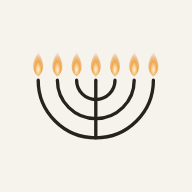
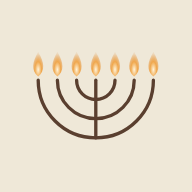
Apply the Heichal look: parchment, ink-brown and gold
- New day and night tokens, gold accent, ink-brown buttons
- Moment tabs as serif words with a gold underline; quiet bottom bar
- Book-page cards with centered kavana and declaration
- Story card, icons and manifest colors follow the new palette

Claude-Session: https://claude.ai/code/session_01C6Bo8ftX7iy7CuK2hTr6DT

Changed region(s): [[0.2812, 0.4062, 0.8125, 0.75], [0.1875, 0.4062, 0.2812, 0.625]]

diff --git a/src/app/globals.css b/src/app/globals.css
@@ -8,34 +8,38 @@
    Night: the same room by candlelight.
    ------------------------------------------------------------ */
 :root {
-  --app-bg: #E8E2D2;
-  --card-bg: #F2EDE0;
-  --text-primary: #5C403C;
-  --text-secondary: #7A7865;
-  --text-muted: #9A9484;
-  --accent-active: #4F6D70;
-  --accent-contrast: #F7F3EA;
-  --accent-border: #7A7865;
-  --flame: #D4A574;
-  --flame-bright: #F2B866;
-  --flame-core: #FFF3D6;
-  --metal: #5C403C;
-  --shadow: 0 4px 20px rgba(92, 64, 60, 0.12);
-  --shadow-strong: 0 6px 30px rgba(92, 64, 60, 0.22);
-  --texture: rgba(92, 64, 60, 0.03);
+  /* היכל: parchment, ink-brown and gold */
+  --app-bg: #EFE8D8;
+  --card-bg: #F7F2E6;
+  --text-primary: #3F2C22;
+  --text-secondary: #6A5648;
+  --text-muted: #7D6B5E;
+  --accent-active: #8A6A2E;
+  --accent-contrast: #F7F2E6;
+  --button-bg: #5A3F2F;
+  --accent-border: #B79F7C;
+  --flame: #B8893B;
+  --flame-bright: #E8B45E;
+  --flame-core: #FFF4DA;
+  --metal: #5A3F2F;
+  --shadow: 0 4px 20px rgba(63, 44, 34, 0.10);
+  --shadow-strong: 0 6px 30px rgba(63, 44, 34, 0.2);
+  --texture: rgba(63, 44, 34, 0.025);
   color-scheme: light;
 }
 
 .dark {
-  --app-bg: #2A2520;
-  --card-bg: #3A342D;
-  --text-primary: #EDE6D6;
-  --text-secondary: #B5AC9C;
-  --text-muted: #8F8678;
-  --accent-active: #7FA7AB;
-  --accent-contrast: #1F1B17;
-  --accent-border: #8A8170;
-  --metal: #CFC6B4;
+  --app-bg: #2B231D;
+  --card-bg: #362C24;
+  --text-primary: #EDE3CF;
+  --text-secondary: #B3A48D;
+  --text-muted: #9A8C78;
+  --accent-active: #D9A954;
+  --accent-contrast: #2B231D;
+  --button-bg: #D9A954;
+  --accent-border: #6E5B47;
+  --flame-bright: #F0BE68;
+  --metal: #CDB998;
   --shadow: 0 4px 20px rgba(0, 0, 0, 0.45);
   --shadow-strong: 0 6px 30px rgba(0, 0, 0, 0.6);
   --texture: rgba(255, 240, 210, 0.02);
@@ -114,9 +118,9 @@
   .sacred-card {
     background-color: var(--card-bg);
     border: 3px double var(--accent-border);
-    border-radius: 18px;
-    padding: 24px;
-    box-shadow: inset 0 2px 8px rgba(92, 64, 60, 0.06), var(--shadow);
+    border-radius: 6px;
+    padding: 26px;
+    box-shadow: var(--shadow);
     position: relative;
   }
 
@@ -139,10 +143,10 @@
   }
 
   .btn-primary {
-    background-color: var(--accent-active);
+    background-color: var(--button-bg);
     color: var(--accent-contrast);
     padding: 14px 24px;
-    border-radius: 14px;
+    border-radius: 8px;
     font-weight: 700;
     box-shadow: var(--shadow);
     transition: transform 0.2s, box-shadow 0.2s, opacity 0.2s;

diff --git a/src/components/app/TodayView.tsx b/src/components/app/TodayView.tsx
@@ -40,7 +40,7 @@ export default function TodayView() {
 
     return (
         <div className="space-y-8">
-            <div className="grid grid-cols-3 gap-1 p-1 rounded-2xl bg-card/70 border border-accent-border/15" role="tablist" aria-label="רגעי היום">
+            <div className="flex justify-center gap-8" role="tablist" aria-label="רגעי היום">
                 {MOMENTS.map((m) => {
                     const active = m.id === moment;
                     return (
@@ -49,12 +49,12 @@ export default function TodayView() {
                             role="tab"
                             aria-selected={active}
                             onClick={() => setMoment(m.id)}
-                            className={`relative rounded-xl py-2.5 transition-all ${active ? 'bg-app-bg shadow-sm text-text-primary' : 'text-text-muted'}`}
+                            title={m.hint}
+                            className={`relative pb-1.5 font-serif text-xl transition-colors border-b-2 ${active ? 'text-text-primary font-bold border-flame' : 'text-text-muted border-transparent hover:text-text-secondary'}`}
                         >
-                            <span className="block font-serif text-lg font-bold leading-tight">{m.label}</span>
-                            <span className="block text-[11px]">{m.hint}</span>
+                            {m.label}
                             {done[m.id] && (
-                                <Check className="absolute top-1.5 left-2 w-3.5 h-3.5 text-flame" aria-label="נעשה היום" strokeWidth={3} />
+                                <Check className="absolute -top-1 -left-3.5 w-3 h-3 text-flame" aria-label="נעשה היום" strokeWidth={3} />
                             )}
                         </button>
                     );

diff --git a/src/components/app/AppShell.tsx b/src/components/app/AppShell.tsx
@@ -137,9 +137,9 @@ export default function AppShell() {
 
                 <OffloadButton />
 
-                <nav className="fixed bottom-0 inset-x-0 z-30 pointer-events-none">
-                    <div className="max-w-lg mx-auto px-4 safe-bottom pointer-events-auto">
-                        <div className="grid grid-cols-4 rounded-2xl bg-card/95 backdrop-blur border border-accent-border/20 shadow-lg">
+                <nav className="fixed bottom-0 inset-x-0 z-30 bg-app-bg/95 backdrop-blur border-t border-accent-border/40">
+                    <div className="max-w-lg mx-auto px-4 safe-bottom">
+                        <div className="grid grid-cols-4">
                             {TABS.map(({ id, label, icon: Icon }) => {
                                 const active = tab === id;
                                 return (
@@ -149,7 +149,7 @@ export default function AppShell() {
                                             setTab(id);
                                             if (id === 'book') setBookDate(null);
                                         }}
-                                        className={`flex flex-col items-center gap-1 py-3 transition-colors ${active ? 'text-accent-active' : 'text-text-muted hover:text-text-secondary'}`}
+                                        className={`flex flex-col items-center gap-1 pt-3 pb-2 transition-colors ${active ? 'text-text-primary' : 'text-text-muted hover:text-text-secondary'}`}
                                         aria-current={active ? 'page' : undefined}
                                     >
                                         <Icon className="w-5 h-5" strokeWidth={active ? 2.4 : 1.8} />

diff --git a/src/components/moments/Arvit.tsx b/src/components/moments/Arvit.tsx
@@ -79,9 +79,10 @@ export default function Arvit() {
         return (
             <div className="space-y-5">
                 <MomentHeader title="הצהרת היש" subtitle="מה שכבר קיים, מתוך מה שהיה היום" />
-                <article className="sacred-card space-y-6">
+                <article className="sacred-card space-y-5 text-center">
+                    <p className="font-serif text-sm text-accent-active">הצהרת היש</p>
                     {entry.declaration ? <SacredText text={entry.declaration} /> : <p className="text-text-secondary">האסיף נשמר.</p>}
-                    <dl className="border-t border-accent-border/25 pt-5 grid gap-3 text-sm">
+                    <dl className="border-t border-accent-border/50 pt-5 grid grid-cols-3 gap-3 text-sm">
                         {STEPS.map((s) => (
                             <div key={s.field}>
                                 <dt className="label">{s.title}</dt>

diff --git a/src/components/moments/Shacharit.tsx b/src/components/moments/Shacharit.tsx
@@ -90,10 +90,11 @@ export default function Shacharit() {
         <div className="space-y-5">
             <MomentHeader title={`בוקר טוב, ${(profile.name || '').split(' ')[0]}`} subtitle="הכוונה שלך להיום" />
 
-            <article className="sacred-card space-y-6">
+            <article className="sacred-card space-y-5 text-center">
+                <p className="font-serif text-sm text-accent-active">כוונה לבוקר</p>
                 <SacredText text={prayer.content} />
                 {prayer.action_line && (
-                    <div className="border-t border-accent-border/25 pt-5 space-y-1">
+                    <div className="border-t border-accent-border/50 pt-5 space-y-1">
                         <p className="label">המשפט ליום</p>
                         <p className="text-lg font-medium text-accent-active leading-relaxed">{prayer.action_line}</p>
                     </div>

diff --git a/src/lib/share/story.ts b/src/lib/share/story.ts
@@ -19,9 +19,9 @@ const W = 1080;
 const H = 1920;
 
 const PALETTE: Record<StoryVariant, { bg: string; fg: string; soft: string; line: string; metal: string; cup: string }> = {
-    day: { bg: '#E8E2D2', fg: '#5C403C', soft: '#7A7865', line: '#7A7865', metal: '#5C403C', cup: '#5C403C' },
-    night: { bg: '#2A2520', fg: '#EDE6D6', soft: '#B5AC9C', line: '#8A8170', metal: '#CFC6B4', cup: '#4A4038' },
-    shabbat: { bg: '#F2EDE0', fg: '#5C403C', soft: '#7A7865', line: '#A08A5C', metal: '#5C403C', cup: '#5C403C' },
+    day: { bg: '#EFE8D8', fg: '#3F2C22', soft: '#6A5648', line: '#B79F7C', metal: '#5A3F2F', cup: '#5A3F2F' },
+    night: { bg: '#2B231D', fg: '#EDE3CF', soft: '#B3A48D', line: '#6E5B47', metal: '#CDB998', cup: '#4A3C30' },
+    shabbat: { bg: '#F7F2E6', fg: '#3F2C22', soft: '#6A5648', line: '#B8893B', metal: '#5A3F2F', cup: '#5A3F2F' },
 };
 
 function fontFamily(varName: string, fallback: string): string {

diff --git a/src/app/layout.tsx b/src/app/layout.tsx
@@ -26,8 +26,8 @@ export const viewport: Viewport = {
     initialScale: 1,
     viewportFit: 'cover',
     themeColor: [
-        { media: '(prefers-color-scheme: light)', color: '#E8E2D2' },
-        { media: '(prefers-color-scheme: dark)', color: '#2A2520' },
+        { media: '(prefers-color-scheme: light)', color: '#EFE8D8' },
+        { media: '(prefers-color-scheme: dark)', color: '#2B231D' },
     ],
 };
 
